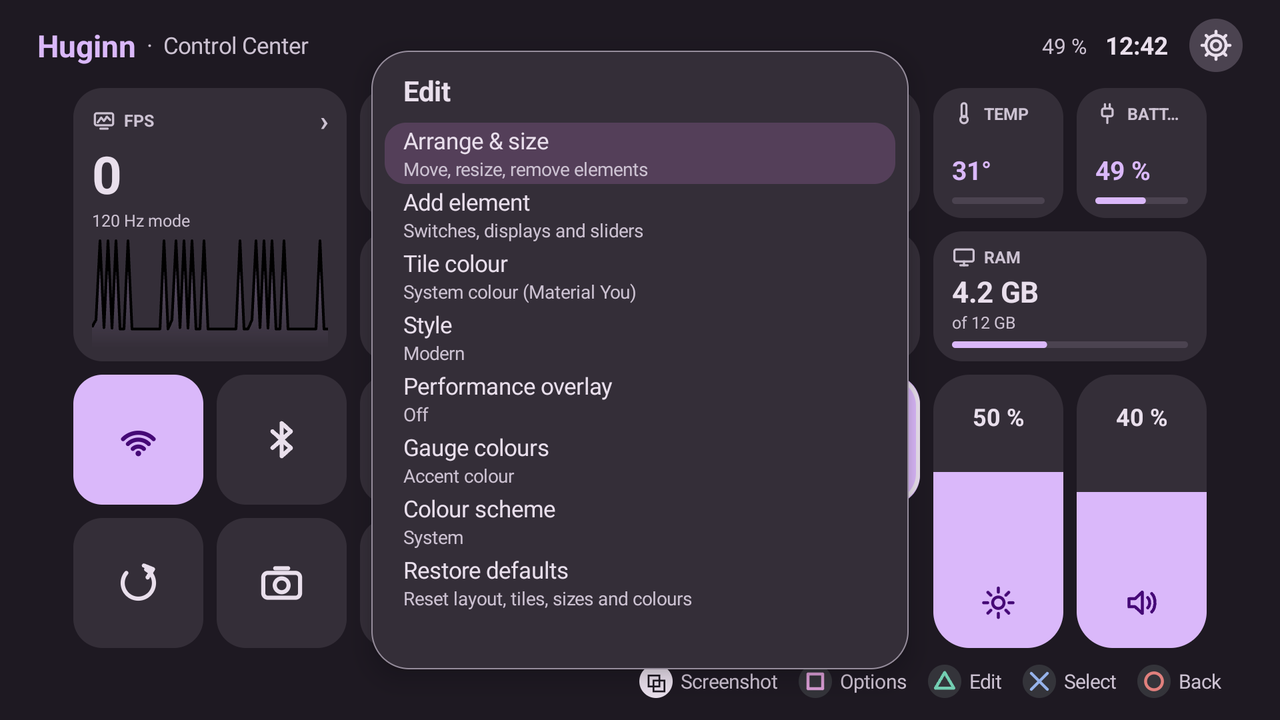
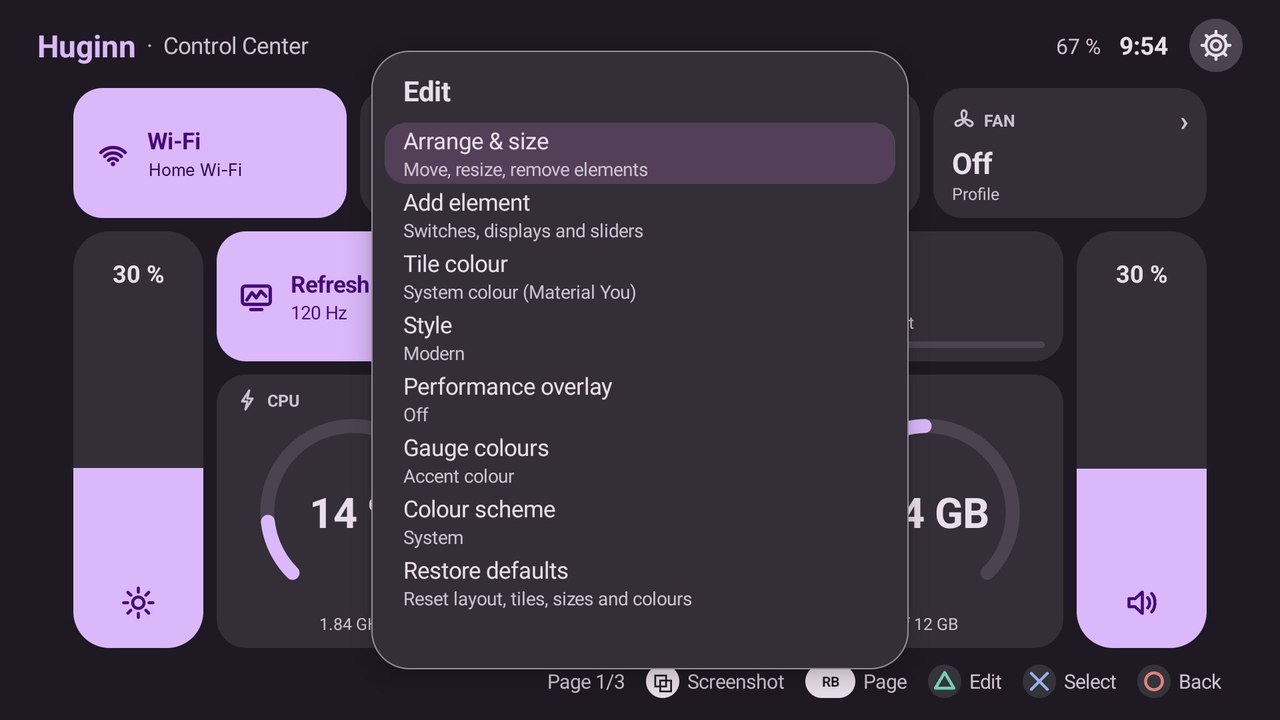
New screenshots: animated style preview, submenus, introduction pictures per style and theme
Claude-Session: https://claude.ai/code/session_01CUeHbaZBeyvgLvWkYzb89K

diff --git a/app/src/main/java/io/github/ninte86hl/hugminn/SetupActivity.kt b/app/src/main/java/io/github/ninte86hl/hugminn/SetupActivity.kt
@@ -133,7 +133,7 @@ class SetupActivity : Activity() {
         // light or dark picture of the style, whichever exists
         val want = "$base-${if (pal.dark) "dark" else "light"}"
         val names = runCatching { assets.list("wizard")?.toSet() }.getOrNull().orEmpty()
-        return listOf(want, "$base-dark", "$base-light").firstOrNull { "$it.jpg" in names } ?: "cc"
+        return listOf(want, "$base-dark", "$base-light").firstOrNull { "$it.jpg" in names } ?: "modern-dark"
     }
 
     private fun onOff(b: Boolean) = if (b) tr("An") else tr("Aus")

diff --git a/README.md b/README.md
@@ -33,23 +33,38 @@ In Norse mythology, Odin's two ravens fly over the world every day and report ba
 ## Screenshots
 
 <p align="center">
-  <img src="docs/screenshots/control-center-modern.png" alt="Control Center, modern style" width="100%">
+  <img src="docs/screenshots/styles.gif" alt="Control Center in all styles: Modern, Pixel, Dot matrix and Cocoon, light and dark" width="100%">
 </p>
+<p align="center"><sub>The Control Center in all four styles – Modern, Pixel, Dot matrix and Cocoon – light and dark</sub></p>
 
 | | |
 | --- | --- |
-| ![Control Center, pixel style](docs/screenshots/control-center-pixel.png) | ![Control Center, dot matrix style](docs/screenshots/control-center-dots.png) |
-| Control Center – pixel style | Control Center – dot matrix style |
-| ![Game switcher](docs/screenshots/game-switcher.png) | ![Game switcher, dot matrix style](docs/screenshots/game-switcher-dots.png) |
-| Muninn – game switcher | Game switcher – dot matrix style |
-| ![Stick LEDs](docs/screenshots/stick-leds.png) | ![Performance overlay in a game](docs/screenshots/fps-overlay.png) |
-| Stick LEDs: colours and effects | Performance overlay in a game |
+| ![Game switcher](docs/screenshots/game-switcher.png) | ![Performance overlay in a game](docs/screenshots/fps-overlay.png) |
+| Muninn – game switcher with the running game's title | Performance overlay in a game |
 | ![Performance profile](docs/screenshots/performance-profile.png) | ![Fan profile](docs/screenshots/fan-profile.png) |
-| Performance profiles | Fan profiles and custom fan curve |
-| ![Performance overlay settings](docs/screenshots/performance-overlay-menu.png) | ![Edit menu](docs/screenshots/edit-menu.png) |
-| Performance overlay settings | Edit: layout, tile colour, style |
+| Performance profile, remembered per emulator | Fan profile, remembered per emulator |
+| ![Custom fan curve](docs/screenshots/fan-curve.png) | ![Stick LEDs](docs/screenshots/stick-leds.png) |
+| Custom fan curve | Stick LEDs: colours and effects |
+| ![Edit menu](docs/screenshots/edit-menu.png) | ![Tile colour](docs/screenshots/tile-colour.png) |
+| Edit: layout, tiles, style, colours | Tile colour |
 | ![Edit mode](docs/screenshots/edit-mode.png) | ![Add element](docs/screenshots/add-element.png) |
 | Edit mode: move and resize elements on a grid with pages | Add displays, switches and sliders |
+
+<details>
+<summary>All styles one by one</summary>
+
+| | |
+| --- | --- |
+| ![Modern dark](docs/screenshots/style-modern-dark.png) | ![Modern light](docs/screenshots/style-modern-light.png) |
+| Modern · dark | Modern · light |
+| ![Pixel dark](docs/screenshots/style-pixel-dark.png) | ![Cocoon light](docs/screenshots/style-cocoon-light.png) |
+| Pixel · dark | Cocoon · light |
+| ![Dot matrix dark](docs/screenshots/style-dots-dark.png) | ![Dot matrix light](docs/screenshots/style-dots-light.png) |
+| Dot matrix · OLED black | Dot matrix · light |
+| ![Cocoon dark](docs/screenshots/style-cocoon-dark.png) | |
+| Cocoon · dark | |
+
+</details>
 
 ## Features
 
